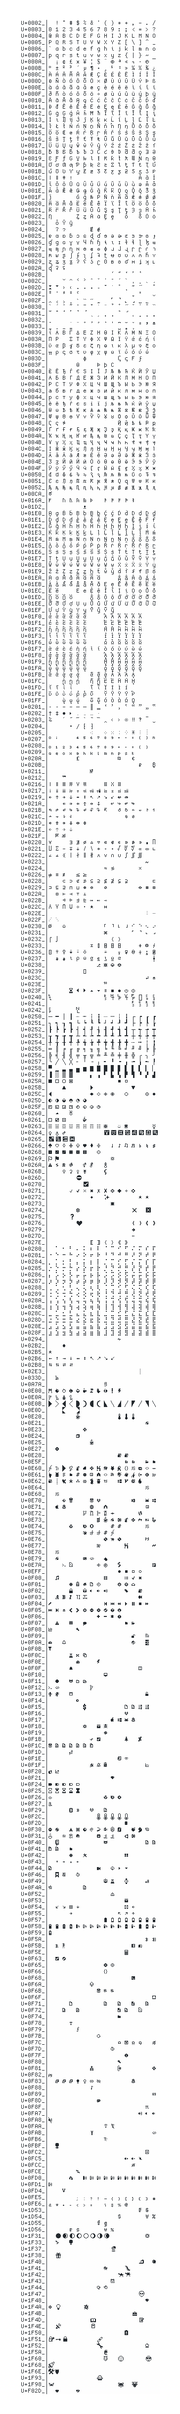
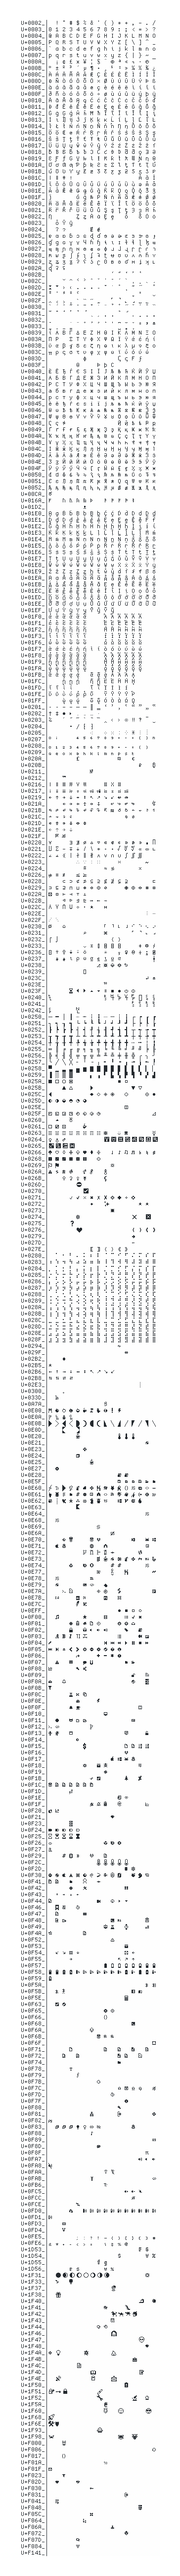
v.1.23.1 Emoji bugfix, new images

diff --git a/CHANGELOG.md b/CHANGELOG.md
@@ -5,7 +5,14 @@ All notable changes to this project will be documented in this file.
 The format is based on [Keep a Changelog], and this project adheres to
 [Semantic Versioning].
 
-## [1.3.0]
+## [1.23.1]
+
+### Changed
+
+- 👩 (U+1F469 WOMAN)
+- 😊 (U+1F60A SMILING FACE WITH SMILING EYES)
+
+## [1.23.0]
 
 ### Added
 
@@ -2427,7 +2434,8 @@ Still broken on Windows.
 
 [keep a changelog]: https://keepachangelog.com/en/1.0.0/
 [semantic versioning]: https://semver.org/spec/v2.0.0.html
-[unreleased]: https://github.com/slavfox/Cozette/compare/v.1.23.0...HEAD
+[unreleased]: https://github.com/slavfox/Cozette/compare/v.1.23.1...HEAD
+[1.23.0]: https://github.com/slavfox/Cozette/compare/v.1.23.0...v.1.23.1
 [1.23.0]: https://github.com/slavfox/Cozette/compare/v.1.22.2...v.1.23.0
 [1.22.2]: https://github.com/slavfox/Cozette/compare/v.1.22.1...v.1.22.2
 [1.22.1]: https://github.com/slavfox/Cozette/compare/v.1.22.0...v.1.22.1
